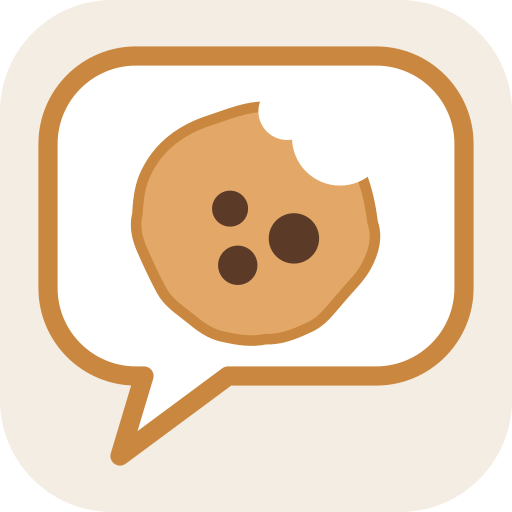
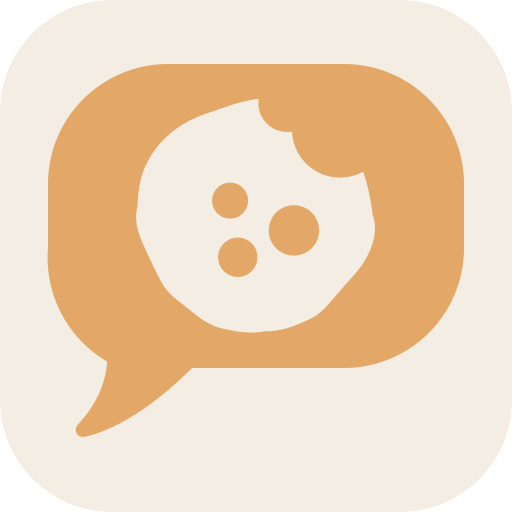
feat(brand): filled chat bubble with the cookie cut out; 2.0.160
Owner feedback 2026-10-02: the bubble is filled, the cookie is a cut-out and
the chips are filled back in; corners follow the plugin's message capsules.
The pinned cookie, bite and chip geometry is reused as the cut-out mask on
the store tile, activity bar and title marks. 2.0.159 stays an untagged-for-
Marketplace build with the outlined bubble.

diff --git a/extensions/vscode/src/cukiiBrandIcons.vitest.ts b/extensions/vscode/src/cukiiBrandIcons.vitest.ts
@@ -104,10 +104,11 @@ describe("cukii brand icons", () => {
     expect(markSvg).toContain('cx="22.4" cy="42.5" r="2.95"');
   });
 
-  it("puts the cookie inside a message bubble on every Cukii Chat mark", () => {
-    // Owner, 2026-10-02: the plugin becomes "Cukii Chat", its logo is the
-    // cookie sitting inside a chat bubble. One bubble path on all three marks.
-    const bubble = /<path d="(M17 7 H47 [^"]+)"/;
+  it("cuts the cookie out of a filled chat bubble on every Cukii Chat mark", () => {
+    // Owner, 2026-10-02: the plugin is "Cukii Chat"; its mark is a FILLED chat
+    // bubble, the cookie is a cut-out inside it and the chips are filled back
+    // in. One bubble path on all three marks, rounded like the capsules.
+    const bubble = /<path d="(M21 8 H43 [^"]+)"/;
     const marks = [
       "cukii-store.svg",
       "cukii-activity.svg",
@@ -117,17 +118,28 @@ describe("cukii brand icons", () => {
     expect(paths[0]).toBeDefined();
     expect(new Set(paths).size).toBe(1);
     for (const svg of marks) {
-      // The cookie is nested, not redrawn: same silhouette inside one group.
-      expect(svg).toMatch(/<g transform="[^"]+">\s*<path d="M56\.3/);
+      // The bubble is painted, the cookie is a hole punched by the mask.
+      expect(svg).toMatch(
+        /<path d="M21 8 H43 [^"]+" fill="[^"]+" mask="url\(#cutout-mask\)"/,
+      );
+      expect(svg).toMatch(/<path d="M56\.3[^"]+" fill="black"\/>/);
+      // Bite and chips restore the bubble colour inside the hole.
+      for (const restored of [
+        'cx="49.5" cy="14" r="10" fill="white"',
+        'cx="26.6" cy="28.8" r="3.75" fill="white"',
+        'cx="39.9" cy="35" r="5.25" fill="white"',
+        'cx="28.2" cy="40.6" r="4.1" fill="white"',
+      ]) {
+        expect(svg).toContain(restored);
+      }
     }
-    // Monochrome marks keep the bubble as a stroke so the mask stays legible.
-    expect(marks[1]).toMatch(/fill="none" stroke="currentColor"/);
+    expect(marks[1]).toContain('fill="currentColor" mask="url(#cutout-mask)"');
   });
 
   it("keeps the in-chat thinking glyph a bare cookie, without the bubble", () => {
     const cookie = readMediaIcon("media/cukii-cookie.svg");
     expect(cookie).toContain('d="M56.3');
-    expect(cookie).not.toContain("M17 7 H47");
+    expect(cookie).not.toContain("M21 8 H43");
     const glyph = readFileSync(
       join(
         __dirname,

diff --git a/extensions/vscode/CHANGELOG.md b/extensions/vscode/CHANGELOG.md
@@ -1,8 +1,8 @@
 # Changelog
 
-## 2.0.159
+## 2.0.160
 
-- **Cukii Chat.** The extension is now called Cukii Chat, with a new logo: the cookie inside a chat bubble.
+- **Cukii Chat.** The extension is now called Cukii Chat, with a new logo: the cookie cut out of a chat bubble.
 - **Usage limits without your logins.** Claude and Codex limits now come from the CLIs themselves. Reading your stored login for them is an opt-in setting (`cukii.usage.directVendorApi`).
 - **No orphaned agents.** If VS Code is killed instead of closed, the agent processes it started now stop too, instead of running on and spending quota.
 
